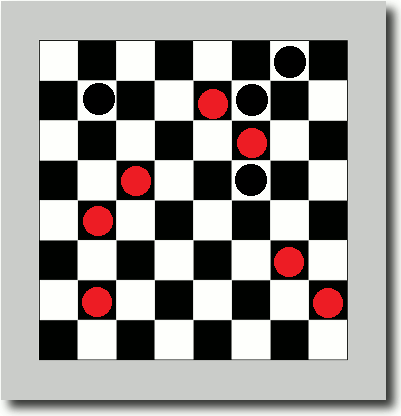
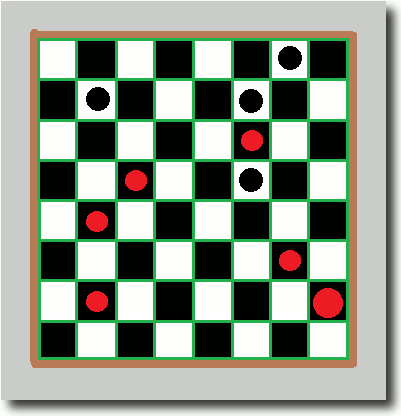
Chane in the image, 2x more rectangles detected than it should be

Changed region(s): [[0.0599, 0.0625, 0.8978, 0.9062]]

diff --git a/CheckersApplication/CheckersApplication/Detection.cs b/CheckersApplication/CheckersApplication/Detection.cs
@@ -45,6 +45,11 @@ namespace CheckersApplication
             Image<Bgr, Byte> img =
                new Image<Bgr, byte>("Chessboard.png")
                .Resize(400, 400, Emgu.CV.CvEnum.Inter.Linear, true);
+
+            Image<Bgr, Byte> img2 =
+   new Image<Bgr, byte>("Chessboard.png")
+   .Resize(400, 400, Emgu.CV.CvEnum.Inter.Linear, true);
+            Image<Bgr, Byte> img3 = img2.CopyBlank();
             //Convert the image to grayscale and filter out the noise
             UMat uimage = new UMat();
             CvInvoke.CvtColor(img, uimage, ColorConversion.Bgr2Gray);
@@ -81,7 +86,7 @@ namespace CheckersApplication
             double cannyThresholdLinking = 120.0;
 
             UMat cannyEdges = new UMat();
-            CvInvoke.Canny(img, cannyEdges, cannyThreshold, cannyThresholdLinking);
+            CvInvoke.Canny(img2, cannyEdges, cannyThreshold, cannyThresholdLinking);
 
             LineSegment2D[] lines = CvInvoke.HoughLinesP(
                cannyEdges,
@@ -107,7 +112,7 @@ namespace CheckersApplication
                     using (VectorOfPoint approxContour = new VectorOfPoint())
                     {
                         CvInvoke.ApproxPolyDP(contour, approxContour, CvInvoke.ArcLength(contour, true) * 0.05, true);
-                        if (CvInvoke.ContourArea(approxContour, false) > 250) //only consider contours with area greater than 250
+                        if (CvInvoke.ContourArea(approxContour, false) > 500 && CvInvoke.ContourArea(approxContour, false) < 1200) //only consider contours with area greater than 250
                         {
                             if (approxContour.Size == 3) //The contour has 3 vertices, it is a triangle
                             {
@@ -150,10 +155,14 @@ namespace CheckersApplication
 
 
             foreach (Triangle2DF triangle in triangleList)
-                img.Draw(triangle, new Bgr(Color.DarkBlue), 2);
+                img3.Draw(triangle, new Bgr(Color.DarkBlue), 2);
             foreach (RotatedRect box in boxList)
-                img.Draw(box, new Bgr(Color.DarkOrange), 2);
-            CvInvoke.Imshow("Result of triangles and rectangles browsing", img);
+            {
+                img3.Draw(box, new Bgr(Color.DarkOrange), 1);
+            }
+
+            CvInvoke.Imshow("Result of triangles and rectangles browsing", img3);
+       
 
 
 
